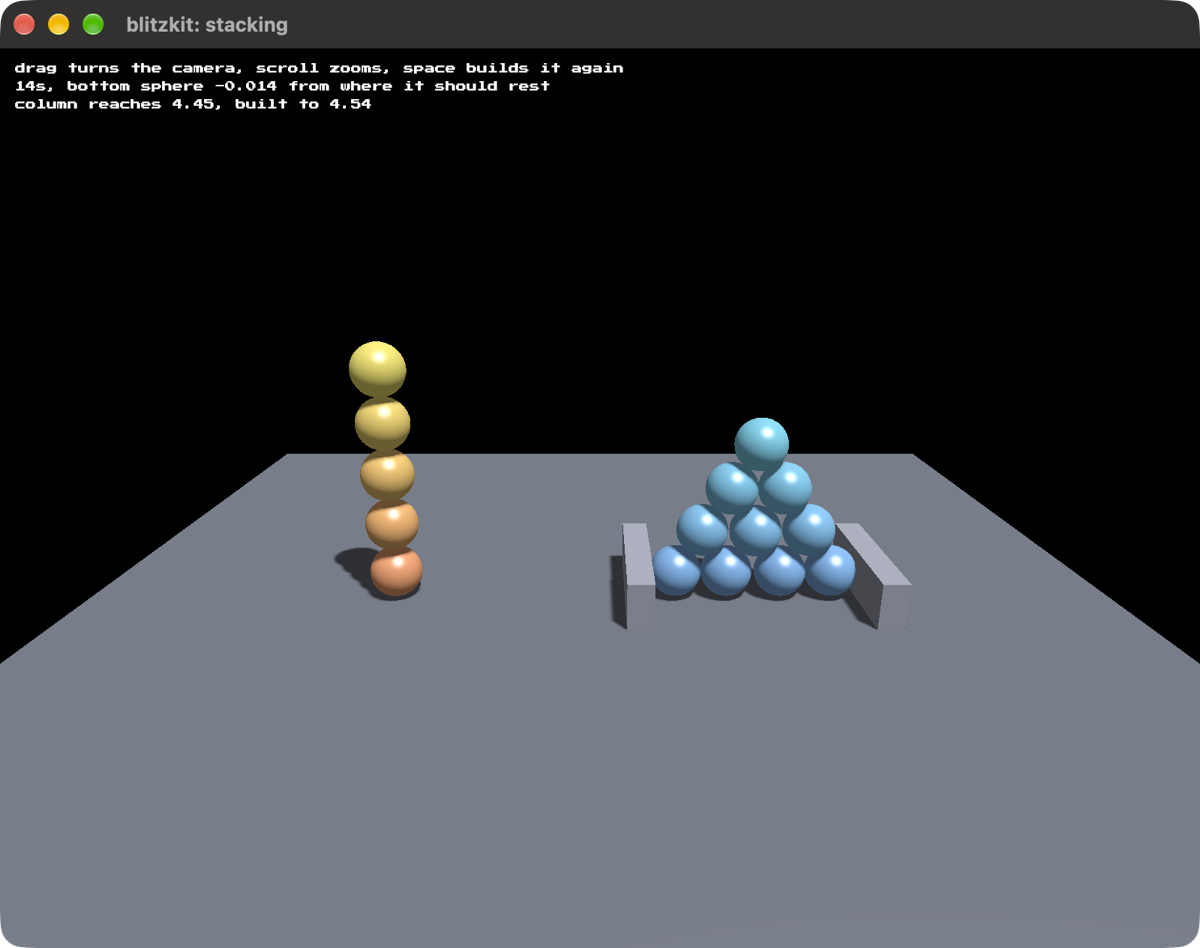
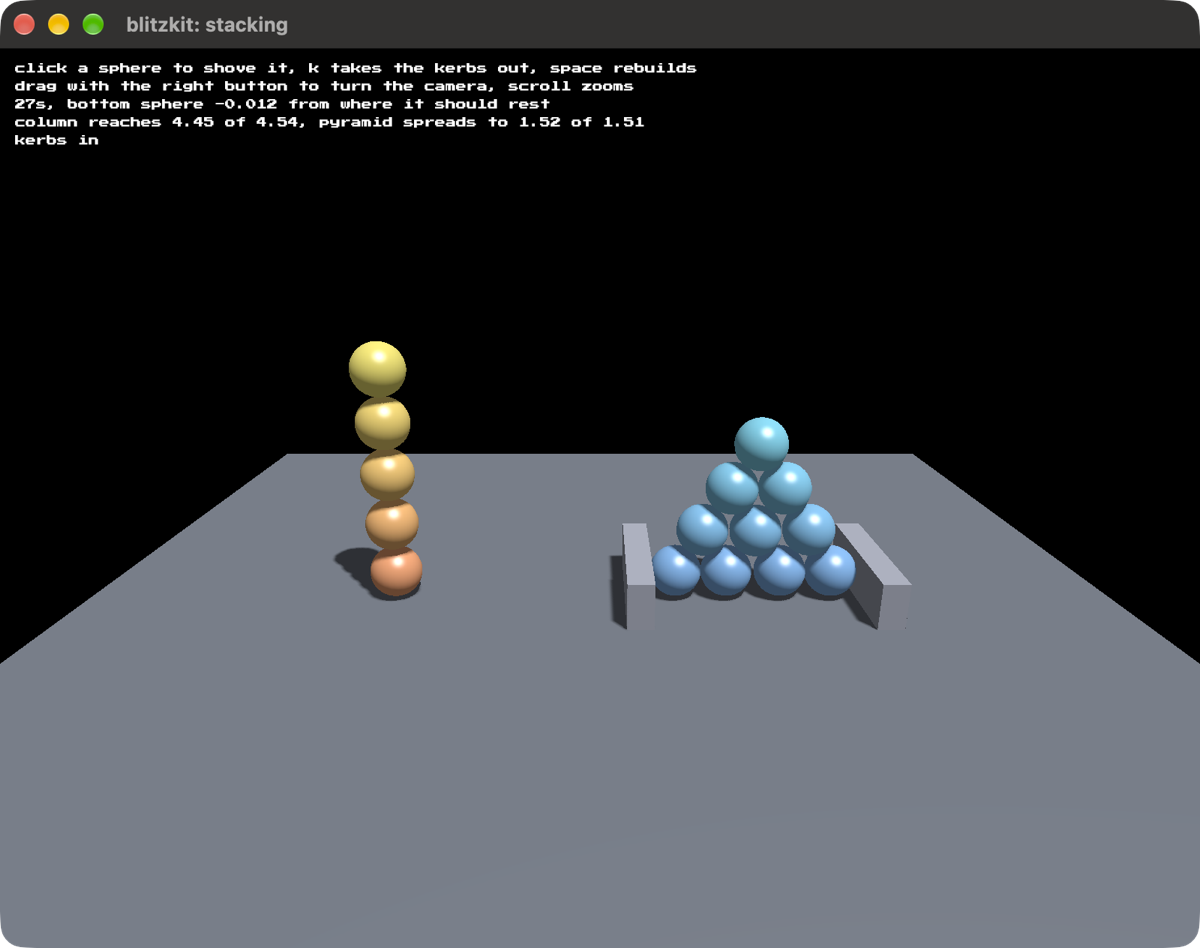
Let the stacking example be knocked over
A stack you cannot touch is a photograph. Clicking a sphere shoves it
away from the camera, at the point the ray met it, so an off centre click
spins it as well as moving it, and finding out whether a stack is
standing for a good reason takes one click.

K takes the pyramid's kerbs out and puts them back. The spec was
asserting in prose that loose spheres will not hold a pyramid up on their
own; now the example shows it, the pile going flat and spreading from
1.51 to 5.19 while the column beside it stands there untouched. Putting
the kerbs back under a spread pile leaves balls inside them, which the
world push out from spec 0033 pulls apart rather than ignoring.

The camera moves to the right button, because a left drag that both
turned the camera and shoved a sphere would be unusable.

Picking is a ray against each sphere, worked out in draw where the camera
is and read on the next click, a frame later than it was computed and
nowhere near slow enough for a hand to notice. hit_sphere stays local to
the example: Ray owns hit_aabb and the engine could reasonably own this
too, but that is public API and so a spec, and one caller is not yet a
reason.

Changed region(s): [[0.0, 0.0612, 0.5858, 0.153]]

diff --git a/examples/stacking.rs b/examples/stacking.rs
@@ -4,13 +4,17 @@
 //!
 //! `cargo run --release --example stacking`
 //!
-//! Drag or move the mouse to swing the camera around, scroll to zoom, space
-//! builds it again, and escape quits. The readout is how far the bottom sphere
-//! of the column has gone below where it should rest, which is the number this
-//! spec exists to keep near zero.
+//! Click a sphere to shove it away from the camera, K takes the pyramid's kerbs
+//! out and puts them back, space builds the whole thing again, drag with the
+//! right button to swing the camera around, scroll to zoom, and escape quits.
+//!
+//! The readout is how far the bottom sphere of the column has gone below where
+//! it should rest, which is the number this spec exists to keep near zero, and
+//! how wide the pyramid's bottom row has spread, which is the number that runs
+//! away the moment the kerbs come out.
 
 use blitzkit::camera::Camera;
-use blitzkit::collision::Aabb;
+use blitzkit::collision::{Aabb, Ray};
 use blitzkit::geometry::Geometry;
 use blitzkit::keyboard::{KeyboardInput, KeyboardKey, KeyboardKeyState};
 use blitzkit::mesh::{MeshData, Transform};
@@ -21,7 +25,7 @@ use blitzkit::renderer::scene::{MeshId, Scene};
 use blitzkit::renderer::Renderer;
 use blitzkit::sound::SoundSystem;
 use blitzkit::{start, Game};
-use glam::{vec2, vec3, vec4, Vec3};
+use glam::{vec2, vec3, vec4, Vec2, Vec3};
 
 const RADIUS: f32 = 0.5;
 const HIGH: usize = 5;
@@ -31,26 +35,64 @@ const ROWS: usize = 4;
 /// into contact rather than a stack that was already resolved.
 const GAP: f32 = 0.01;
 const GRAVITY: f32 = -9.81;
+/// How hard a click shoves a sphere. Mass is 1, so this is also the speed it
+/// leaves at, and 4 is enough to put a column over without firing it off the
+/// floor.
+const NUDGE: f32 = 4.0;
 const COLUMN_AT: f32 = -4.0;
 const PYRAMID_AT: f32 = 3.0;
 /// Where a kerb's middle sits, out from the pyramid's own middle: past the
 /// outermost ball of the bottom row by its own radius and half the kerb's
 /// depth, so the inner face is right against it.
 const BASE_EDGE: f32 = (ROWS as f32 - 1.0) * 0.5 * (RADIUS * 2.0 + GAP) + RADIUS + 0.25;
+/// How far the outermost ball of the bottom row starts from the pyramid's
+/// middle, to read the spread against.
+const BUILT_SPREAD: f32 = (ROWS as f32 - 1.0) * 0.5 * (RADIUS * 2.0 + GAP);
 
 struct Stacking {
     ball_mesh: Option<MeshId>,
     box_mesh: Option<MeshId>,
     floor_mesh: Option<MeshId>,
     bodies: Vec<Body>,
+    /// The slab first and the two kerbs after it, so taking the kerbs out is a
+    /// shorter slice rather than a second Vec kept in step with this one.
     floor: Vec<Aabb>,
     /// Where the bottom of the column should sit, to measure against.
     resting: f32,
     elapsed: f32,
     camera_angle: f32,
-    dragging: bool,
+    /// Turning the camera is the right button, because the left one shoves a
+    /// sphere and a drag that did both would be unusable.
+    turning: bool,
     distance: f32,
+    cursor: Vec2,
+    /// Which sphere is under the cursor, and where the ray met it. Worked out
+    /// in `draw`, which is where the camera is, and read on the next click.
+    picked: Option<(usize, Vec3)>,
+    /// The ray the last pick was made along, to shove along.
+    aim: Option<Ray>,
+    kerbs: bool,
     quitting: bool,
+}
+
+/// Where a ray first meets a sphere, or nothing. The usual quadratic: how far
+/// along the ray the nearest point to the middle is, then back off by the half
+/// chord the radius leaves.
+fn hit_sphere(ray: &Ray, middle: Vec3, radius: f32) -> Option<f32> {
+    let towards = middle - ray.origin;
+    let nearest = towards.dot(ray.direction);
+    let off = towards.length_squared() - nearest * nearest;
+    let half = radius * radius - off;
+    if half < 0.0 {
+        return None;
+    }
+
+    let entry = nearest - half.sqrt();
+    if entry < 0.0 {
+        None
+    } else {
+        Some(entry)
+    }
 }
 
 /// The column, then the pyramid beside it. Both out of one function so that
@@ -118,9 +160,24 @@ impl Stacking {
             resting: RADIUS,
             elapsed: 0.0,
             camera_angle: 0.0,
-            dragging: false,
+            turning: false,
             distance: 14.0,
+            cursor: Vec2::ZERO,
+            picked: None,
+            aim: None,
+            kerbs: true,
             quitting: false,
+        }
+    }
+}
+
+impl Stacking {
+    /// The slab on its own, or the slab and both kerbs.
+    fn world(&self) -> &[Aabb] {
+        if self.kerbs {
+            &self.floor
+        } else {
+            &self.floor[..1]
         }
     }
 }
@@ -149,7 +206,14 @@ impl Game for Stacking {
         _sound_system: &SoundSystem,
     ) {
         self.elapsed += dt;
-        step(&mut self.bodies, &self.floor, vec3(0.0, GRAVITY, 0.0), dt);
+        // Sliced out before the bodies are borrowed, since one method cannot
+        // hand out both halves of self at once.
+        let world = if self.kerbs {
+            &self.floor[..]
+        } else {
+            &self.floor[..1]
+        };
+        step(&mut self.bodies, world, vec3(0.0, GRAVITY, 0.0), dt);
 
         let sunk = self.resting - self.bodies[0].position.y;
         let top = self
@@ -158,21 +222,35 @@ impl Game for Stacking {
             .take(HIGH)
             .map(|body| body.position.y)
             .fold(0.0f32, f32::max);
+        let spread = self
+            .bodies
+            .iter()
+            .skip(HIGH)
+            .map(|body| (body.position.x - PYRAMID_AT).abs())
+            .fold(0.0f32, f32::max);
 
         text_renderer.reset();
         // vec!, not an array: on edition 2018 an array's into_iter hands back
         // references, which is the whole trap this project keeps walking into.
         for (line, text) in vec![
-            String::from("drag turns the camera, scroll zooms, space builds it again"),
+            String::from("click a sphere to shove it, k takes the kerbs out, space rebuilds"),
+            String::from("drag with the right button to turn the camera, scroll zooms"),
             format!(
                 "{:.0}s, bottom sphere {:+.3} from where it should rest",
                 self.elapsed, -sunk
             ),
             format!(
-                "column reaches {:.2}, built to {:.2}",
+                "column reaches {:.2} of {:.2}, pyramid spreads to {:.2} of {:.2}",
                 top,
-                RADIUS + (HIGH - 1) as f32 * (RADIUS * 2.0 + GAP)
+                RADIUS + (HIGH - 1) as f32 * (RADIUS * 2.0 + GAP),
+                spread,
+                BUILT_SPREAD
             ),
+            String::from(if self.kerbs {
+                "kerbs in"
+            } else {
+                "kerbs out: nothing wedges the bottom row, so the pile goes flat"
+            }),
         ]
         .into_iter()
         .enumerate()
@@ -199,8 +277,8 @@ impl Game for Stacking {
         );
 
         // The kerbs are drawn exactly where they collide, skipping the slab,
-        // which is the plane above.
-        for wall in self.floor.iter().skip(1) {
+        // which is the plane above, and not at all once they are out.
+        for wall in self.world().iter().skip(1) {
             scene.push_colored(
                 cube,
                 &Transform::at(wall.center()).with_scale(wall.size()),
@@ -212,11 +290,16 @@ impl Game for Stacking {
         // its own, so which sphere is which stays readable while they move.
         for (which, body) in self.bodies.iter().enumerate() {
             let up = (body.position.y / 5.0).clamp(0.0, 1.0);
-            let colour = if which < HIGH {
+            let mut colour = if which < HIGH {
                 vec4(0.9, 0.35 + up * 0.5, 0.2, 1.0)
             } else {
                 vec4(0.25, 0.45 + up * 0.35, 0.85, 1.0)
             };
+            // The one under the cursor goes pale, so a click is aimed rather
+            // than hopeful.
+            if self.picked.map(|(at, _)| at) == Some(which) {
+                colour = (colour + vec4(0.5, 0.5, 0.5, 0.0)).min(vec4(1.0, 1.0, 1.0, 1.0));
+            }
             scene.push_material(
                 ball,
                 &Transform::at(body.position).with_scale(Vec3::splat(body.radius * 2.0)),
@@ -232,6 +315,21 @@ impl Game for Stacking {
                 self.distance * 0.35,
                 self.camera_angle.cos() * self.distance,
             );
+
+        // Picking happens here because this is where the camera is. It is a
+        // frame behind the click that reads it, which at any frame rate worth
+        // having is not something a hand can notice.
+        let ray = camera.ray_through(self.cursor);
+        self.picked = self
+            .bodies
+            .iter()
+            .enumerate()
+            .filter_map(|(which, body)| {
+                hit_sphere(&ray, body.position, body.radius).map(|away| (away, which))
+            })
+            .min_by(|one, other| one.0.total_cmp(&other.0))
+            .map(|(away, which)| (which, ray.at(away)));
+        self.aim = Some(ray);
     }
 
     fn process_keyboard(&mut self, input: KeyboardInput) {
@@ -239,21 +337,38 @@ impl Game for Stacking {
         match input.key {
             KeyboardKey::Space if held => {
                 self.bodies = build();
+                self.kerbs = true;
                 self.elapsed = 0.0;
             }
+            // Putting the kerbs back under a pile that has already spread
+            // leaves balls inside them, which the solver pushes apart rather
+            // than ignoring. That is worth watching too.
+            KeyboardKey::K if held => self.kerbs = !self.kerbs,
             KeyboardKey::Escape => self.quitting = held,
             _ => (),
         }
     }
 
     fn process_mouse(&mut self, input: MouseInput) {
-        if input.button == MouseButton::Left {
-            self.dragging = input.is_pressed();
+        match input.button {
+            MouseButton::Right => self.turning = input.is_pressed(),
+            MouseButton::Left if input.is_pressed() => {
+                // Shove it the way the cursor is looking, at the point the ray
+                // met it, so a click off centre spins it as well as moves it.
+                if let (Some((which, at)), Some(ray)) = (self.picked, self.aim) {
+                    self.bodies[which].strike(ray.direction * NUDGE, at);
+                }
+            }
+            _ => (),
         }
     }
 
-    fn mouse_motion(&mut self, delta: glam::Vec2) {
-        if self.dragging {
+    fn cursor_moved(&mut self, position: Vec2) {
+        self.cursor = position;
+    }
+
+    fn mouse_motion(&mut self, delta: Vec2) {
+        if self.turning {
             self.camera_angle += delta.x * 0.005;
         }
     }

diff --git a/specs/0033-an-iterative-solver.md b/specs/0033-an-iterative-solver.md
@@ -153,9 +153,15 @@ the slop every contact is allowed.
 
 The pyramid has a kerb either side of its bottom row, because loose spheres will
 not hold one up on their own. Each ball sitting in a valley shoves the two
-beneath it apart and only the floor's grip resists, which is never enough:
-without the kerbs the thing slumps into a line. That is geometry rather than the
-solver, and a rack has a frame for the same reason.
+beneath it apart and only the floor's grip resists, which is never enough. K
+takes the kerbs out to show it rather than leaving it asserted here: the pile
+goes flat and spreads from 1.51 to 5.19, while the column standing beside it does
+not move. That is geometry rather than the solver, and a rack has a frame for the
+same reason.
+
+Clicking a sphere shoves it away from the camera, at the point the ray met it, so
+a click off centre spins it too. It is the quickest way to find out whether a
+stack that is standing is standing for a good reason.
 
 marble, carom and poolhall were run and looked at after this landed: the marble
 rests on its platform, carom's cross of thirteen sits as it was dealt, and

diff --git a/README.md b/README.md
@@ -46,9 +46,16 @@ where it should rest.
 cargo run --release --example stacking
 ```
 
-Drag or move the mouse to swing the camera around, scroll to zoom, and space
-builds it again. The pyramid has a kerb either side of its bottom row, because
-loose spheres shove each other apart and will not hold one up on their own.
+Click a sphere to shove it away from the camera, which is how to knock the column
+over. `K` takes the pyramid's kerbs out and puts them back, space builds the
+whole thing again, dragging with the right button turns the camera, and scrolling
+zooms.
+
+The kerbs are there because loose spheres will not hold a pyramid up on their
+own: each ball sitting in a valley shoves the two beneath it apart, and only the
+floor's grip resists. Taking them out is the quickest way to see it. The pile
+goes flat and spreads to three times the width it was built to, while the column
+beside it stands there unbothered.
 
 ![A column of five spheres and a pyramid of ten between two low kerbs, standing
 on a grey floor](https://raw.githubusercontent.com/jvalol/blitzkit/main/media/stacking.png)

diff --git a/site/content/docs/examples.md b/site/content/docs/examples.md
@@ -36,11 +36,14 @@ cargo run --release --example stacking
 
 The pyramid has a kerb either side of its bottom row. Loose spheres will not hold
 one up on their own: each ball sitting in a valley shoves the two beneath it
-apart, and only the floor's grip resists.
+apart, and only the floor's grip resists. Press K to take the kerbs out and watch
+the pile go flat while the column beside it stands there unbothered.
 
-- drag or move the mouse to swing the camera round
-- scroll to zoom
+- click a sphere to shove it away from the camera
+- K takes the kerbs out and puts them back
 - space builds it again
+- drag with the right button to turn the camera
+- scroll to zoom
 
 ![A column of five spheres and a pyramid of ten between two low kerbs, standing
 on a grey floor](/media/stacking.png)
